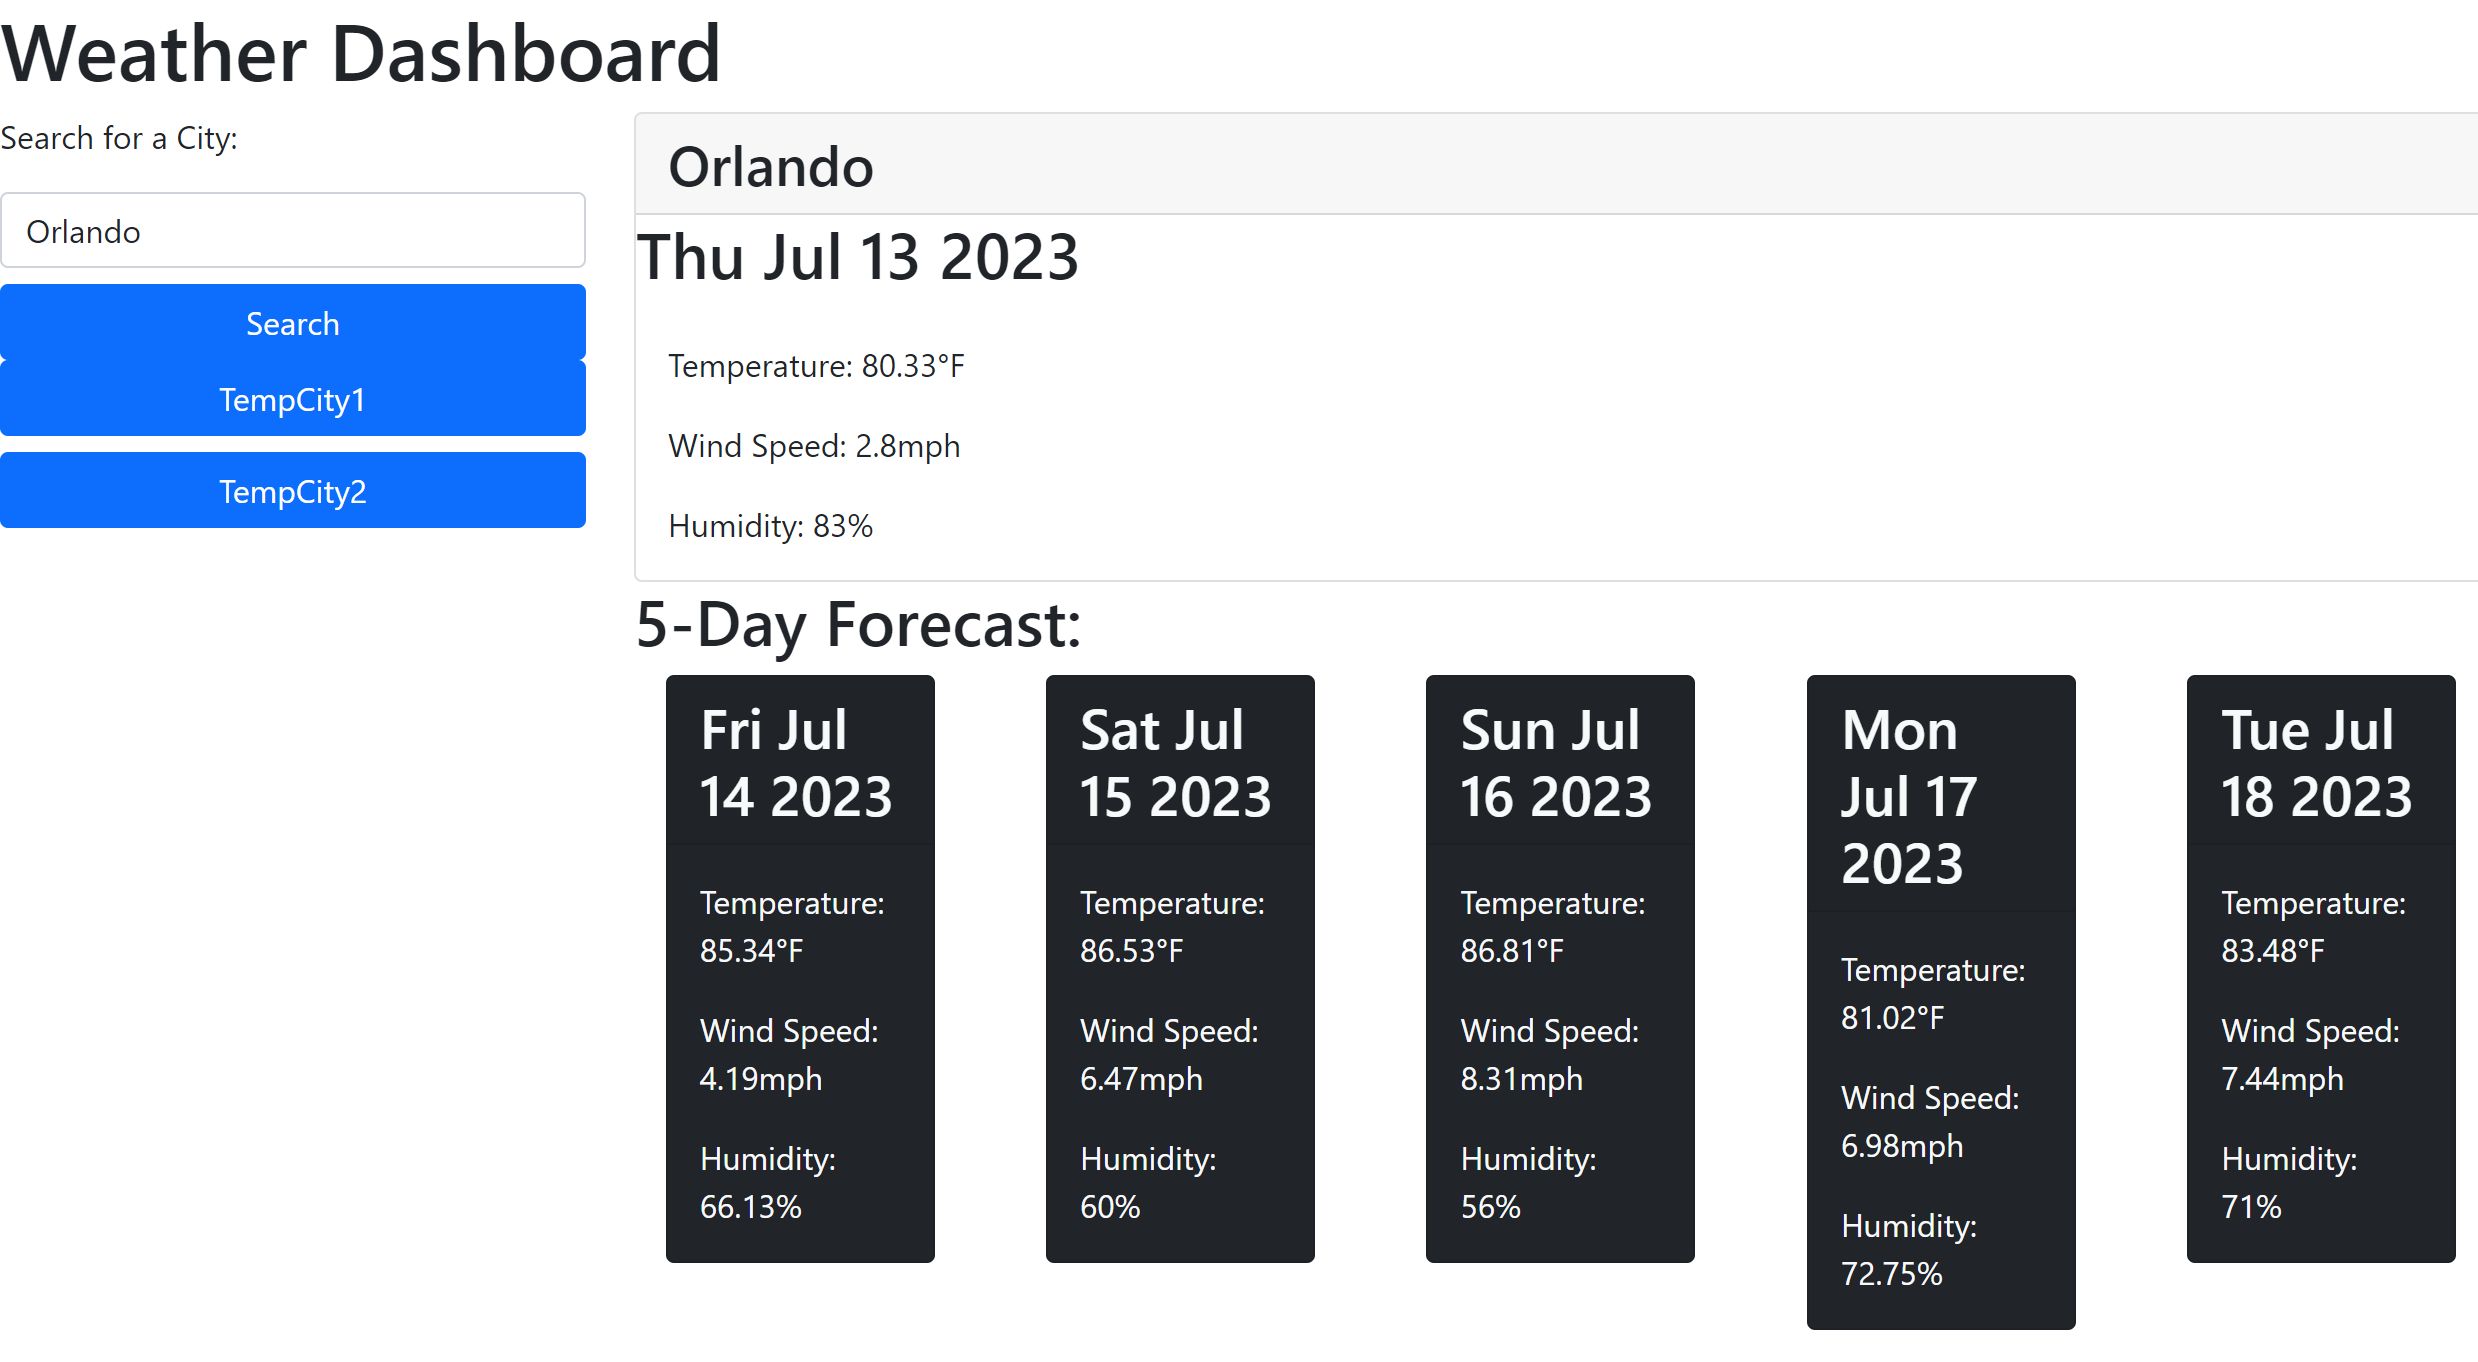
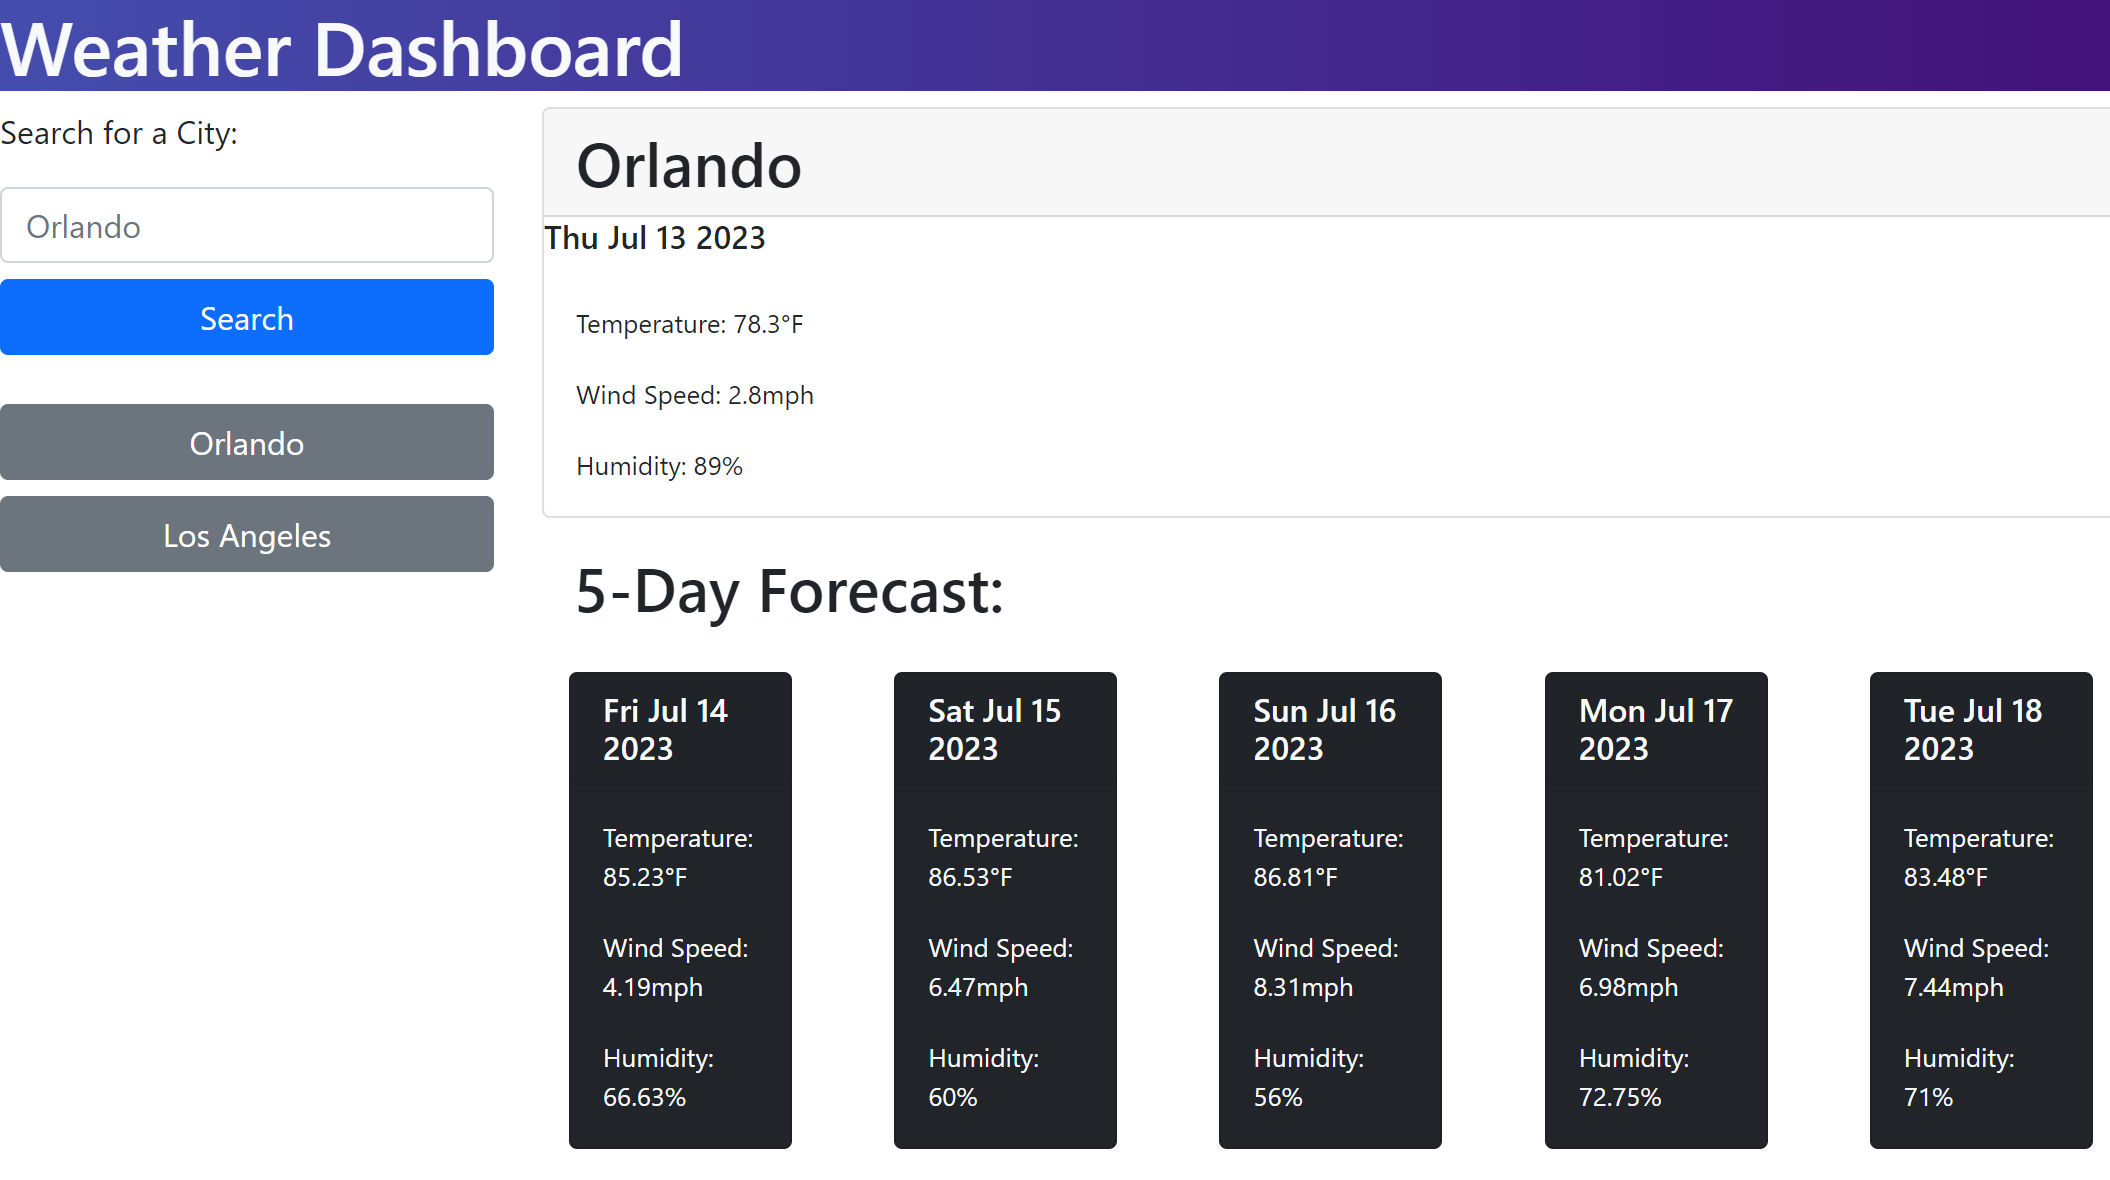
Updated css and screenshot

Changed region(s): [[0.0, 0.0, 1.0, 0.9763]]

diff --git a/index.html b/index.html
@@ -35,27 +35,23 @@
             <div class="col-12 col-md-9">
                 <div class="card" id="today">
                     <h2 class="card-header">
-                        Example City
+                        Select City
                     </h2>
                     <h3></h3>
                     <div class="card-body">
                         <p class="card-text">
-                            Temp:
                         </p>
                         <p class="card-text">
-                            Wind:
                         </p>
                         <p class="card-text">
-                            Humidity:
                         </p>
                     </div>
                 </div>
-                <h2>5-Day Forecast:</h2>
+                <h2 class="p-3" id="five-day">5-Day Forecast:</h2>
                 <section class="row justify-content-around" id="days">
                     <div class="col-12 col-sm-6 col-lg-2 mb-3" id="day1">
                         <div class="card bg-dark text-light">
                             <h3 class="card-header">
-                                Monday
                             </h3>
                             <div class="card-body">
                                 <p class="card-text">
@@ -73,7 +69,6 @@
                     <div class="col-12 col-sm-6 col-lg-2 mb-3" id="day2">
                         <div class="card bg-dark text-light">
                             <h3 class="card-header">
-                                Tuesday
                             </h3>
                             <div class="card-body">
                                 <p class="card-text">
@@ -91,7 +86,6 @@
                     <div class="col-12 col-sm-6 col-lg-2 mb-3" id="day3">
                         <div class="card bg-dark text-light">
                             <h3 class="card-header">
-                                Wednesday
                             </h3>
                             <div class="card-body">
                                 <p class="card-text">
@@ -109,7 +103,6 @@
                     <div class="col-12 col-sm-6 col-lg-2 mb-3" id="day4">
                         <div class="card bg-dark text-light">
                             <h3 class="card-header">
-                                Thursday
                             </h3>
                             <div class="card-body">
                                 <p class="card-text">
@@ -127,7 +120,6 @@
                     <div class="col-12 col-sm-6 col-lg-2 mb-3" id="day5">
                         <div class="card bg-dark text-light">
                             <h3 class="card-header">
-                                Friday
                             </h3>
                             <div class="card-body">
                                 <p class="card-text">

diff --git a/assets/js/script.js b/assets/js/script.js
@@ -6,6 +6,7 @@ var submitCityEl = document.querySelector("#search");
 var todayDetail = document.querySelector("#today");
 var daysDetail = document.querySelector("#days");
 var memory = document.querySelector("#memory");
+var fiveDay = document.querySelector("#five-day")
 var allCities = JSON.parse(localStorage.getItem("cities"));
 
 
@@ -14,7 +15,7 @@ if(allCities !== null){
     for(let i = 0; i < allCities.length; i++) {
         var city = document.createElement("button");
         city.textContent = allCities[i][0];
-        city.setAttribute("class", "btn btn-primary");
+        city.setAttribute("class", "btn btn-secondary");
         city.setAttribute("type", "button");
 
         city.addEventListener("click", function (event){
@@ -180,6 +181,10 @@ function getWeather(lat, long){
         todayDetail.children[2].children[0].textContent = "Temperature: " + (Math.round((sums.today[0]/count.today)*100)/100) + "°F";
         todayDetail.children[2].children[1].textContent = "Wind Speed: " + (Math.round((sums.today[1]/count.today)*100)/100) + "mph";
         todayDetail.children[2].children[2].textContent = "Humidity: " + (Math.round((sums.today[2]/count.today)*100)/100) + "%";
+
+        // show boxes
+        fiveDay.style.display = "block";
+        daysDetail.style.display = "flex";
 
         // loop through the next 5 days and display values similar to method above
         for(let i = 0; i < daysDetail.children.length; i++) {

diff --git a/assets/css/style.css b/assets/css/style.css
@@ -13,3 +13,12 @@ p{
 #memory{
     margin-top: 10%;
 }
+
+#days{
+    display: none;
+}
+
+#five-day{
+    display: none;
+
+}
